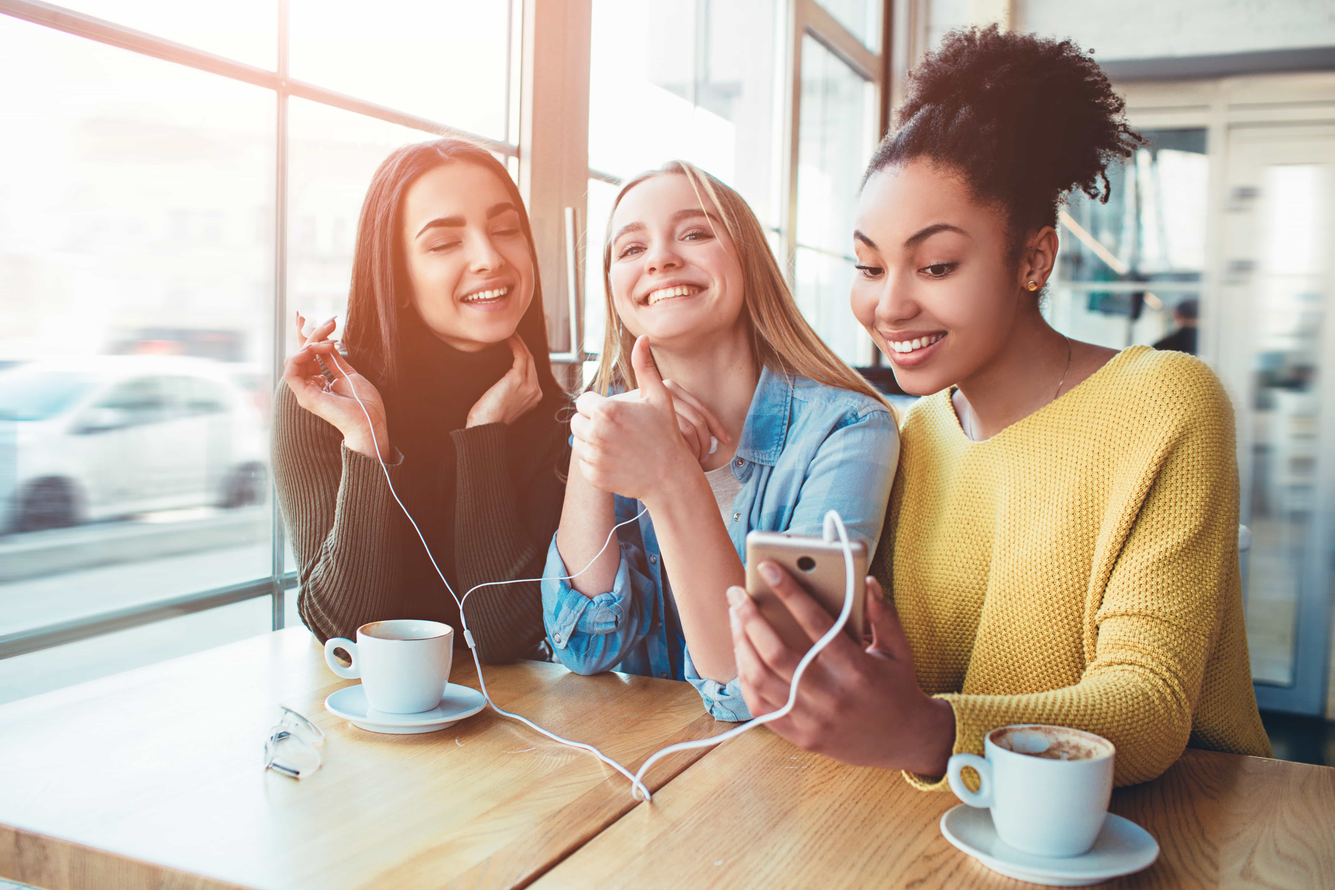
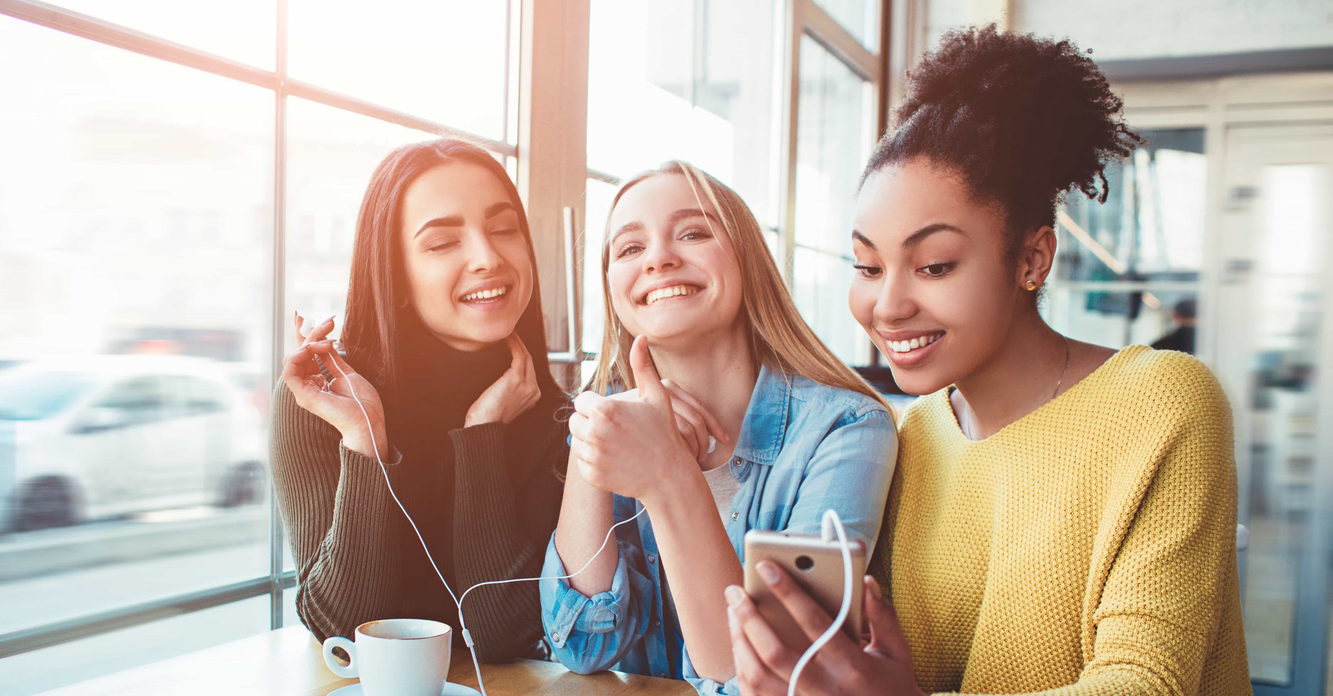
Fix hero image position (#628)

diff --git a/client/src/pages/HomePage/view.js b/client/src/pages/HomePage/view.js
@@ -64,7 +64,7 @@ const Background = styled(Box)`
     left: 0;
 
     @media (min-width: 992px) {
-        background: url(${hero}) no-repeat center -175px scroll;
+        background: url(${hero}) no-repeat center;
         background-size: cover;
     }
 `;
